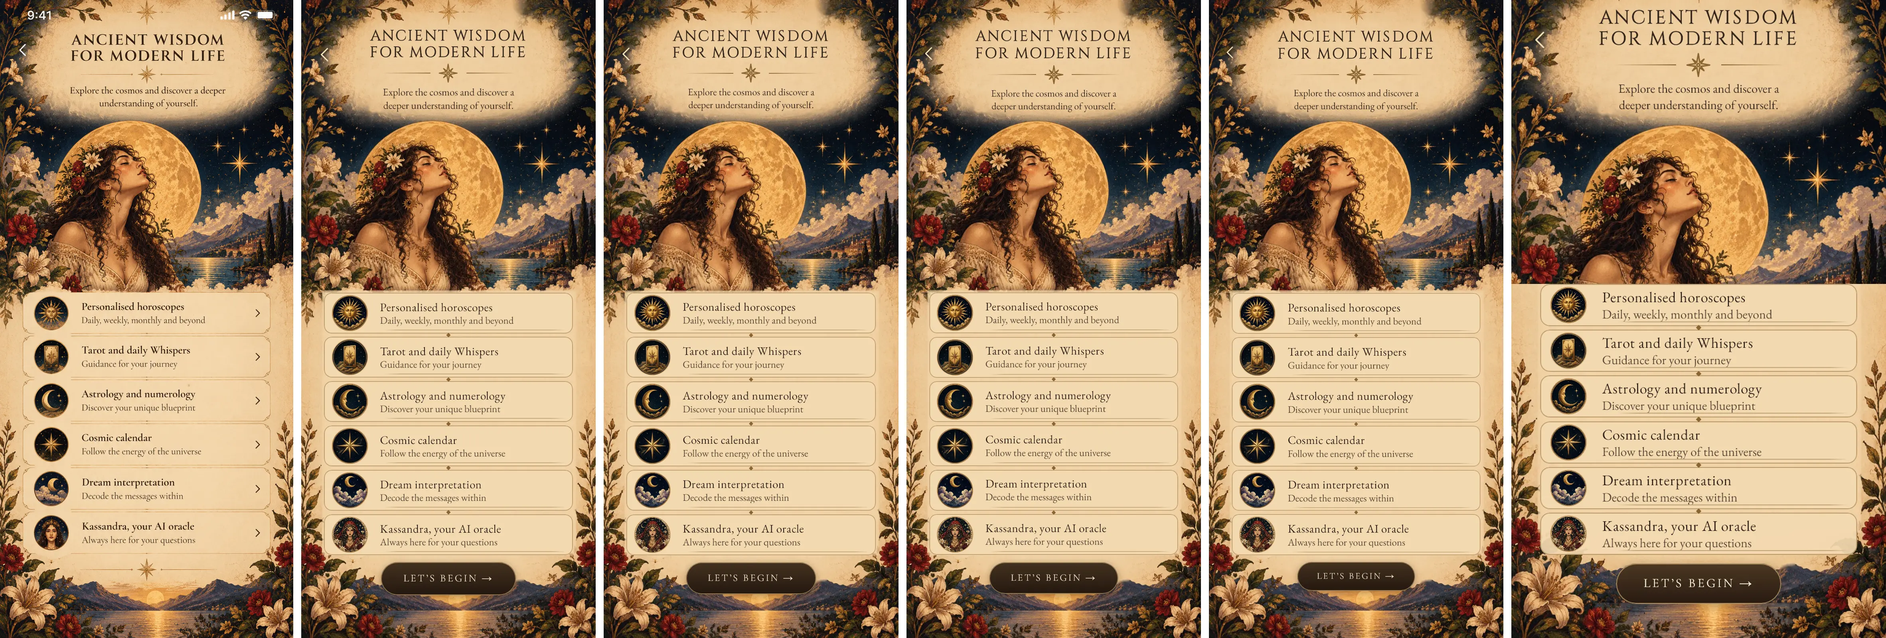
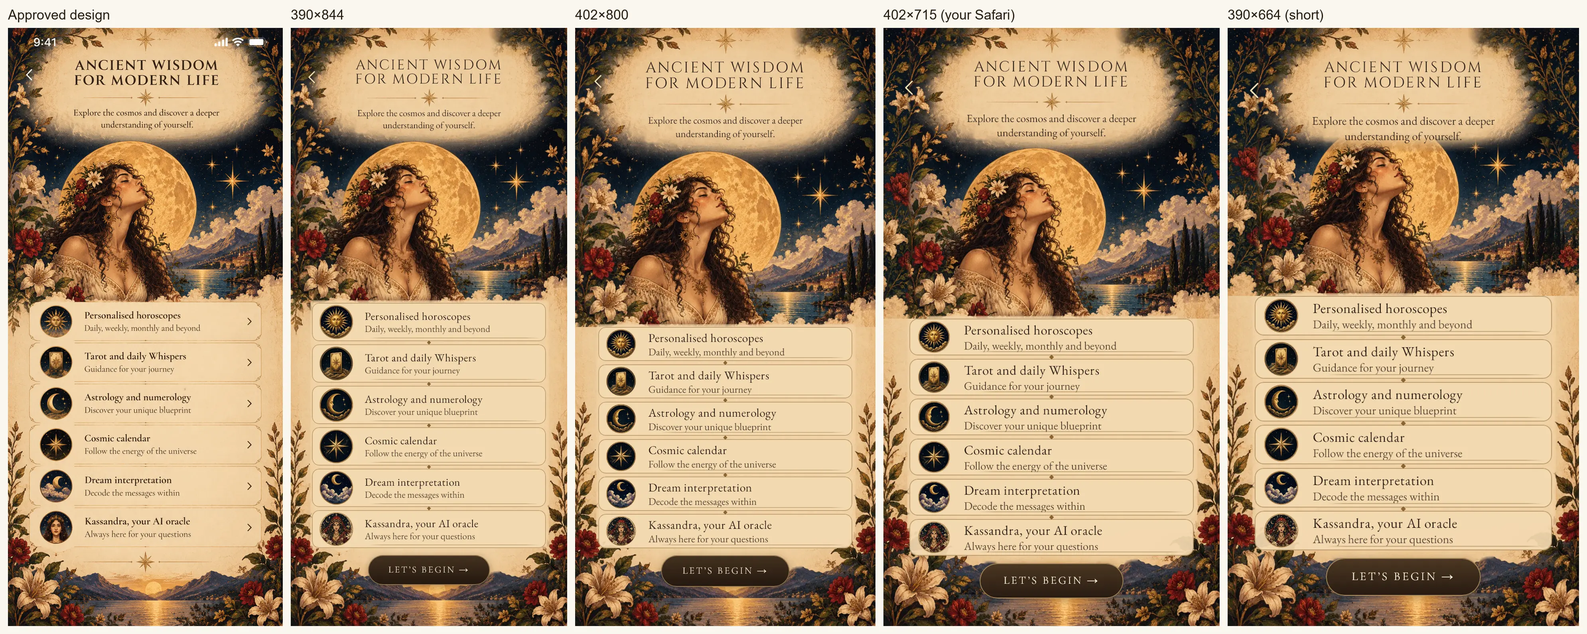
Ancient Wisdom, top half as approved: the painting keeps its whole frame (bottom clouds and flowers meeting the first row, the top star whole) with the rows taking what it leaves; on shorter screens the painting and its title scale down together to 85% (its sides painted further so the width stays f

diff --git a/public/art/sizes.js b/public/art/sizes.js
@@ -1,2 +1,2 @@
 /* generated by scripts/asset-manifest.mjs: [width, height, alpha] of every image under /art */
-window.KOSMIA_SIZES={"atlas/aw-foot":[850,1004,0],"atlas/aw-top":[850,846,0],"atlas/banner-calendar":[760,506,0],"atlas/banner-library":[760,506,0],"atlas/cal-scene":[1100,733,0],"atlas/ce-vignette":[480,720,0],"atlas/ds-death":[560,560,0],"atlas/ds-flying":[560,560,0],"atlas/ds-house":[560,560,0],"atlas/ds-snake":[560,560,0],"atlas/ds-water":[560,560,0],"atlas/ev-eclipse":[720,480,0],"atlas/ev-full":[720,480,0],"atlas/ev-meteor":[720,480,0],"atlas/ev-new":[720,480,0],"atlas/ev-planet":[720,480,0],"atlas/ev-quarter":[720,480,0],"atlas/ev-sun":[720,480,0],"atlas/ex-chart":[560,560,0],"atlas/ex-compat":[560,560,0],"atlas/ex-lifepath":[560,560,0],"atlas/ex-name":[560,560,0],"atlas/ex-resonance":[560,560,0],"atlas/fg-aquarius":[900,900,1],"atlas/fg-aries":[900,900,1],"atlas/fg-cancer":[900,900,1],"atlas/fg-capricorn":[900,900,1],"atlas/fg-gemini":[900,900,1],"atlas/fg-leo":[900,900,1],"atlas/fg-libra":[900,900,1],"atlas/fg-pisces":[900,900,1],"atlas/fg-sagittarius":[900,900,1],"atlas/fg-scorpio":[900,900,1],"atlas/fg-taurus":[900,900,1],"atlas/fg-virgo":[900,900,1],"atlas/hero-affinity":[1100,733,0],"atlas/hero-chart":[1100,733,0],"atlas/hero-discover":[1024,1024,0],"atlas/hero-dream":[1100,733,0],"atlas/hero-horoscope":[1024,1024,0],"atlas/hero-insights":[1100,733,0],"atlas/hero-journal":[1024,1024,0],"atlas/hero-lifepath":[1100,733,0],"atlas/hero-name":[1100,733,0],"atlas/hero-tarot":[1024,1024,0],"atlas/home-energy":[1200,800,0],"atlas/home-garden":[720,1080,0],"atlas/home-halo":[560,560,1],"atlas/home-lake":[720,1080,0],"atlas/home-sky":[1024,1536,0],"atlas/home-sun":[960,640,0],"atlas/home-vines":[720,1080,0],"atlas/ico-career":[275,320,1],"atlas/ico-family":[270,320,1],"atlas/ico-health":[281,320,1],"atlas/ico-love":[319,320,1],"atlas/ico-money":[262,320,1],"atlas/ico-overview":[282,320,1],"atlas/journal-end":[640,960,0],"atlas/kassandra-banner":[1100,733,0],"atlas/kassandra":[760,760,0],"atlas/landscape":[1100,733,0],"atlas/med-aquarius":[560,560,0],"atlas/med-aries":[560,560,0],"atlas/med-cancer":[560,560,0],"atlas/med-capricorn":[560,560,0],"atlas/med-gemini":[560,560,0],"atlas/med-leo":[560,560,0],"atlas/med-libra":[560,560,0],"atlas/med-pisces":[560,560,0],"atlas/med-sagittarius":[560,560,0],"atlas/med-scorpio":[560,560,0],"atlas/med-taurus":[560,560,0],"atlas/med-virgo":[560,560,0],"atlas/nav-discover":[314,320,1],"atlas/nav-home":[267,320,1],"atlas/nav-horoscope":[295,320,1],"atlas/nav-kassandra":[319,320,1],"atlas/nav-tarot":[270,320,1],"atlas/ne-card":[230,320,1],"atlas/ne-free":[269,320,1],"atlas/ob-crescent":[1200,800,0],"atlas/ob-final":[1200,800,0],"atlas/ob-sky":[900,1350,0],"atlas/ob-sunset":[960,1440,0],"atlas/ob-welcome":[1024,1536,0],"atlas/ob-woman":[1200,800,0],"atlas/obm-dream":[192,192,0],"atlas/obm-moon":[192,192,0],"atlas/obm-star":[192,192,0],"atlas/obm-sun":[192,192,0],"atlas/obm-tarot":[192,192,0],"atlas/owl":[1100,733,0],"atlas/plate-aquarius":[640,960,0],"atlas/plate-aries":[640,960,0],"atlas/plate-cancer":[640,960,0],"atlas/plate-capricorn":[640,960,0],"atlas/plate-gemini":[640,960,0],"atlas/plate-leo":[640,960,0],"atlas/plate-libra":[640,960,0],"atlas/plate-pisces":[640,960,0],"atlas/plate-sagittarius":[640,960,0],"atlas/plate-scorpio":[640,960,0],"atlas/plate-taurus":[640,960,0],"atlas/plate-virgo":[640,960,0],"atlas/t-history":[307,320,1],"atlas/t-journal":[315,320,1],"atlas/t-reading":[269,320,1],"atlas/t-whisper":[315,320,1],"atlas/welcome":[640,960,0],"atlas/zm-aquarius":[400,400,0],"atlas/zm-aries":[400,400,0],"atlas/zm-cancer":[400,400,0],"atlas/zm-capricorn":[400,400,0],"atlas/zm-gemini":[400,400,0],"atlas/zm-leo":[400,400,0],"atlas/zm-libra":[400,400,0],"atlas/zm-pisces":[400,400,0],"atlas/zm-sagittarius":[400,400,0],"atlas/zm-scorpio":[400,400,0],"atlas/zm-taurus":[400,400,0],"atlas/zm-virgo":[400,400,0],"cards/back":[600,900,0],"cards/cartouche":[640,640,1],"cards/crest":[144,67,1],"cards/kassandra-float":[278,300,1],"cards/kassandra":[480,480,0],"cards/ornament":[144,53,1],"cards/plaque":[1024,432,1],"cards/tarot-back":[600,900,0],"cats/aspects":[160,160,1],"cats/calendar":[160,160,1],"cats/career":[160,160,1],"cats/chart":[160,160,1],"cats/collection":[160,160,1],"cats/connections":[160,160,1],"cats/cycles":[160,160,1],"cats/deck":[160,160,1],"cats/family":[160,160,1],"cats/finance":[160,160,1],"cats/general":[160,160,1],"cats/health":[160,160,1],"cats/history":[160,160,1],"cats/insights":[160,160,1],"cats/lifepath":[160,160,1],"cats/love":[160,160,1],"cats/match":[160,160,1],"cats/moon":[160,160,1],"cats/namewithin":[160,160,1],"cats/new":[160,160,1],"cats/notifications":[160,160,1],"cats/planetary":[160,160,1],"cats/planets":[160,160,1],"cats/prefs":[160,160,1],"cats/privacy":[160,160,1],"cats/profile":[160,160,1],"cats/reflections":[160,160,1],"cats/resonance":[160,160,1],"cats/saved":[160,160,1],"cats/settings":[160,160,1],"cats/spreads":[160,160,1],"cats/today":[160,160,1],"cats/upcoming":[160,160,1],"cosmos":[768,1152,0],"deck/c1":[720,1080,0],"deck/c10":[720,1080,0],"deck/c11":[720,1080,0],"deck/c12":[720,1080,0],"deck/c13":[720,1080,0],"deck/c14":[720,1080,0],"deck/c2":[720,1080,0],"deck/c3":[720,1080,0],"deck/c4":[720,1080,0],"deck/c5":[720,1080,0],"deck/c6":[720,1080,0],"deck/c7":[720,1080,0],"deck/c8":[720,1080,0],"deck/c9":[720,1080,0],"deck/m0":[720,1080,0],"deck/m1":[720,1080,0],"deck/m10":[720,1080,0],"deck/m11":[720,1080,0],"deck/m12":[720,1080,0],"deck/m13":[720,1080,0],"deck/m14":[720,1080,0],"deck/m15":[720,1080,0],"deck/m16":[720,1080,0],"deck/m17":[720,1080,0],"deck/m18":[720,1080,0],"deck/m19":[720,1080,0],"deck/m2":[720,1080,0],"deck/m20":[720,1080,0],"deck/m21":[720,1080,0],"deck/m3":[720,1080,0],"deck/m4":[720,1080,0],"deck/m5":[720,1080,0],"deck/m6":[720,1080,0],"deck/m7":[720,1080,0],"deck/m8":[720,1080,0],"deck/m9":[720,1080,0],"deck/p1":[720,1080,0],"deck/p10":[720,1080,0],"deck/p11":[720,1080,0],"deck/p12":[720,1080,0],"deck/p13":[720,1080,0],"deck/p14":[720,1080,0],"deck/p2":[720,1080,0],"deck/p3":[720,1080,0],"deck/p4":[720,1080,0],"deck/p5":[720,1080,0],"deck/p6":[720,1080,0],"deck/p7":[720,1080,0],"deck/p8":[720,1080,0],"deck/p9":[720,1080,0],"deck/s1":[720,1080,0],"deck/s10":[720,1080,0],"deck/s11":[720,1080,0],"deck/s12":[720,1080,0],"deck/s13":[720,1080,0],"deck/s14":[720,1080,0],"deck/s2":[720,1080,0],"deck/s3":[720,1080,0],"deck/s4":[720,1080,0],"deck/s5":[720,1080,0],"deck/s6":[720,1080,0],"deck/s7":[720,1080,0],"deck/s8":[720,1080,0],"deck/s9":[720,1080,0],"deck/w1":[720,1080,0],"deck/w10":[720,1080,0],"deck/w11":[720,1080,0],"deck/w12":[720,1080,0],"deck/w13":[720,1080,0],"deck/w14":[720,1080,0],"deck/w2":[720,1080,0],"deck/w3":[720,1080,0],"deck/w4":[720,1080,0],"deck/w5":[720,1080,0],"deck/w6":[720,1080,0],"deck/w7":[720,1080,0],"deck/w8":[720,1080,0],"deck/w9":[720,1080,0],"frame-paper":[944,600,0],"frame":[1024,1536,0],"icons/aquarius":[256,256,1],"icons/aries":[256,256,1],"icons/cancer":[256,256,1],"icons/capricorn":[256,256,1],"icons/gemini":[256,256,1],"icons/leo":[256,256,1],"icons/libra":[256,256,1],"icons/pisces":[256,256,1],"icons/sagittarius":[256,256,1],"icons/scorpio":[256,256,1],"icons/taurus":[256,256,1],"icons/virgo":[256,256,1],"moons/first-quarter":[420,420,1],"moons/full-moon":[420,420,1],"moons/last-quarter":[420,420,1],"moons/new-moon":[420,420,1],"moons/waning-crescent":[420,420,1],"moons/waning-gibbous":[420,420,1],"moons/waxing-crescent":[420,420,1],"moons/waxing-gibbous":[420,420,1],"nav/calendar":[128,128,1],"nav/chart":[128,128,1],"nav/fortune":[128,128,1],"nav/home":[128,128,1],"nav/horoscopes":[128,128,1],"nav/love":[128,128,1],"nav/tarot":[128,128,1],"nav/universe":[128,128,1],"onboarding-paper":[1024,234,0],"onboarding":[1024,1536,0],"pages/compass-rose":[1024,1536,0],"pages/cover":[1024,1536,0],"pages/edge-h":[768,512,0],"pages/edge-v":[512,768,0],"pages/moon-phases":[1024,1536,0],"pages/night-sky":[1024,1536,0],"pages/pressed-roses":[1024,1536,0],"pages/sleeping-moon":[1024,1536,0],"pages/sun-face":[1024,1536,0],"plates/astro":[1024,683,0],"plates/connections":[1024,683,0],"plates/cycles":[1024,683,0],"plates/events":[1024,683,0],"plates/ins-astro":[1024,683,0],"plates/ins-numbers":[1024,683,0],"plates/ins-oracle":[1024,683,0],"plates/lifepath":[1024,683,0],"plates/locket":[1024,683,0],"plates/moon":[1024,683,0],"plates/name":[1024,683,0],"plates/natal":[1024,683,0],"plates/numbers":[1024,683,0],"plates/oracle":[1024,683,0],"plates/orrery":[1024,683,0],"plates/readings":[1024,683,0],"plates/sky":[1024,683,0],"plates/starmap":[1024,683,0],"plates/sunmoon":[1024,683,0],"plates/synastry":[1024,683,0],"scenes/aquarius":[768,1152,0],"scenes/aries":[768,1152,0],"scenes/cancer":[768,1152,0],"scenes/capricorn":[768,1152,0],"scenes/gemini":[768,1152,0],"scenes/leo":[768,1152,0],"scenes/libra":[768,1152,0],"scenes/pisces":[768,1152,0],"scenes/sagittarius":[768,1152,0],"scenes/scorpio":[768,1152,0],"scenes/taurus":[768,1152,0],"scenes/virgo":[768,1152,0],"spreads/career":[192,192,1],"spreads/celtic":[192,192,1],"spreads/love":[192,192,1],"spreads/one":[192,192,1],"spreads/ppf":[192,192,1],"spreads/scg":[192,192,1],"whispers/butterfly":[720,1080,0],"whispers/clear-crystal":[720,1080,0],"whispers/crossroads":[720,1080,0],"whispers/daily-bread":[720,1080,0],"whispers/dawn-chorus":[720,1080,0],"whispers/deep-roots":[720,1080,0],"whispers/distant-ship":[720,1080,0],"whispers/fairy-ring":[720,1080,0],"whispers/first-light":[720,1080,0],"whispers/gentle-rain":[720,1080,0],"whispers/golden-hour":[720,1080,0],"whispers/golden-key":[720,1080,0],"whispers/hidden-garden":[720,1080,0],"whispers/inner-key":[720,1080,0],"whispers/late-bloom":[720,1080,0],"whispers/lighthouse":[720,1080,0],"whispers/music-box":[720,1080,0],"whispers/nightingale":[720,1080,0],"whispers/north-star":[720,1080,0],"whispers/old-tree":[720,1080,0],"whispers/open-door":[720,1080,0],"whispers/open-path":[720,1080,0],"whispers/quiet-harvest":[720,1080,0],"whispers/quiet-moon":[720,1080,0],"whispers/returning-tide":[720,1080,0],"whispers/rising-sun":[720,1080,0],"whispers/sacred-flame":[720,1080,0],"whispers/sanctuary":[720,1080,0],"whispers/sealed-letter":[720,1080,0],"whispers/silver-thread":[720,1080,0],"whispers/snow-tracks":[720,1080,0],"whispers/stargazer":[720,1080,0],"whispers/steady-star":[720,1080,0],"whispers/stepping-stones":[720,1080,0],"whispers/still-water":[720,1080,0],"whispers/the-anchor":[720,1080,0],"whispers/the-aurora":[720,1080,0],"whispers/the-balloon":[720,1080,0],"whispers/the-bell":[720,1080,0],"whispers/the-bench":[720,1080,0],"whispers/the-birdcage":[720,1080,0],"whispers/the-blossom":[720,1080,0],"whispers/the-bridge":[720,1080,0],"whispers/the-cairn":[720,1080,0],"whispers/the-chalice":[720,1080,0],"whispers/the-comet":[720,1080,0],"whispers/the-compass":[720,1080,0],"whispers/the-dandelion":[720,1080,0],"whispers/the-eclipse":[720,1080,0],"whispers/the-ember":[720,1080,0],"whispers/the-feather":[720,1080,0],"whispers/the-fox":[720,1080,0],"whispers/the-frost":[720,1080,0],"whispers/the-hare":[720,1080,0],"whispers/the-harp":[720,1080,0],"whispers/the-hearth":[720,1080,0],"whispers/the-hedgerow":[720,1080,0],"whispers/the-heron":[720,1080,0],"whispers/the-hive":[720,1080,0],"whispers/the-hourglass":[720,1080,0],"whispers/the-kingfisher":[720,1080,0],"whispers/the-kite":[720,1080,0],"whispers/the-labyrinth":[720,1080,0],"whispers/the-lantern":[720,1080,0],"whispers/the-lotus":[720,1080,0],"whispers/the-mirror":[720,1080,0],"whispers/the-moth":[720,1080,0],"whispers/the-mountain":[720,1080,0],"whispers/the-nautilus":[720,1080,0],"whispers/the-nest":[720,1080,0],"whispers/the-orchard":[720,1080,0],"whispers/the-owl":[720,1080,0],"whispers/the-phoenix":[720,1080,0],"whispers/the-pinecone":[720,1080,0],"whispers/the-pomegranate":[720,1080,0],"whispers/the-river":[720,1080,0],"whispers/the-scales":[720,1080,0],"whispers/the-seed":[720,1080,0],"whispers/the-snail":[720,1080,0],"whispers/the-snowdrop":[720,1080,0],"whispers/the-spiral":[720,1080,0],"whispers/the-stag":[720,1080,0],"whispers/the-stile":[720,1080,0],"whispers/the-sundial":[720,1080,0],"whispers/the-swan":[720,1080,0],"whispers/the-swing":[720,1080,0],"whispers/the-tapestry":[720,1080,0],"whispers/the-waterfall":[720,1080,0],"whispers/the-weaver":[720,1080,0],"whispers/the-web":[720,1080,0],"whispers/the-well":[720,1080,0],"whispers/the-whale":[720,1080,0],"whispers/the-willow":[720,1080,0],"whispers/the-wind":[720,1080,0],"whispers/turning-wheel":[720,1080,0],"whispers/two-moons":[720,1080,0],"whispers/watchful-eye":[720,1080,0],"whispers/white-lily":[720,1080,0],"whispers/wild-geese":[720,1080,0],"whispers/wild-horse":[720,1080,0]};
+window.KOSMIA_SIZES={"atlas/aw-foot":[850,1004,0],"atlas/aw-top":[1269,846,0],"atlas/banner-calendar":[760,506,0],"atlas/banner-library":[760,506,0],"atlas/cal-scene":[1100,733,0],"atlas/ce-vignette":[480,720,0],"atlas/ds-death":[560,560,0],"atlas/ds-flying":[560,560,0],"atlas/ds-house":[560,560,0],"atlas/ds-snake":[560,560,0],"atlas/ds-water":[560,560,0],"atlas/ev-eclipse":[720,480,0],"atlas/ev-full":[720,480,0],"atlas/ev-meteor":[720,480,0],"atlas/ev-new":[720,480,0],"atlas/ev-planet":[720,480,0],"atlas/ev-quarter":[720,480,0],"atlas/ev-sun":[720,480,0],"atlas/ex-chart":[560,560,0],"atlas/ex-compat":[560,560,0],"atlas/ex-lifepath":[560,560,0],"atlas/ex-name":[560,560,0],"atlas/ex-resonance":[560,560,0],"atlas/fg-aquarius":[900,900,1],"atlas/fg-aries":[900,900,1],"atlas/fg-cancer":[900,900,1],"atlas/fg-capricorn":[900,900,1],"atlas/fg-gemini":[900,900,1],"atlas/fg-leo":[900,900,1],"atlas/fg-libra":[900,900,1],"atlas/fg-pisces":[900,900,1],"atlas/fg-sagittarius":[900,900,1],"atlas/fg-scorpio":[900,900,1],"atlas/fg-taurus":[900,900,1],"atlas/fg-virgo":[900,900,1],"atlas/hero-affinity":[1100,733,0],"atlas/hero-chart":[1100,733,0],"atlas/hero-discover":[1024,1024,0],"atlas/hero-dream":[1100,733,0],"atlas/hero-horoscope":[1024,1024,0],"atlas/hero-insights":[1100,733,0],"atlas/hero-journal":[1024,1024,0],"atlas/hero-lifepath":[1100,733,0],"atlas/hero-name":[1100,733,0],"atlas/hero-tarot":[1024,1024,0],"atlas/home-energy":[1200,800,0],"atlas/home-garden":[720,1080,0],"atlas/home-halo":[560,560,1],"atlas/home-lake":[720,1080,0],"atlas/home-sky":[1024,1536,0],"atlas/home-sun":[960,640,0],"atlas/home-vines":[720,1080,0],"atlas/ico-career":[275,320,1],"atlas/ico-family":[270,320,1],"atlas/ico-health":[281,320,1],"atlas/ico-love":[319,320,1],"atlas/ico-money":[262,320,1],"atlas/ico-overview":[282,320,1],"atlas/journal-end":[640,960,0],"atlas/kassandra-banner":[1100,733,0],"atlas/kassandra":[760,760,0],"atlas/landscape":[1100,733,0],"atlas/med-aquarius":[560,560,0],"atlas/med-aries":[560,560,0],"atlas/med-cancer":[560,560,0],"atlas/med-capricorn":[560,560,0],"atlas/med-gemini":[560,560,0],"atlas/med-leo":[560,560,0],"atlas/med-libra":[560,560,0],"atlas/med-pisces":[560,560,0],"atlas/med-sagittarius":[560,560,0],"atlas/med-scorpio":[560,560,0],"atlas/med-taurus":[560,560,0],"atlas/med-virgo":[560,560,0],"atlas/nav-discover":[314,320,1],"atlas/nav-home":[267,320,1],"atlas/nav-horoscope":[295,320,1],"atlas/nav-kassandra":[319,320,1],"atlas/nav-tarot":[270,320,1],"atlas/ne-card":[230,320,1],"atlas/ne-free":[269,320,1],"atlas/ob-crescent":[1200,800,0],"atlas/ob-final":[1200,800,0],"atlas/ob-sky":[900,1350,0],"atlas/ob-sunset":[960,1440,0],"atlas/ob-welcome":[1024,1536,0],"atlas/ob-woman":[1200,800,0],"atlas/obm-dream":[192,192,0],"atlas/obm-moon":[192,192,0],"atlas/obm-star":[192,192,0],"atlas/obm-sun":[192,192,0],"atlas/obm-tarot":[192,192,0],"atlas/owl":[1100,733,0],"atlas/plate-aquarius":[640,960,0],"atlas/plate-aries":[640,960,0],"atlas/plate-cancer":[640,960,0],"atlas/plate-capricorn":[640,960,0],"atlas/plate-gemini":[640,960,0],"atlas/plate-leo":[640,960,0],"atlas/plate-libra":[640,960,0],"atlas/plate-pisces":[640,960,0],"atlas/plate-sagittarius":[640,960,0],"atlas/plate-scorpio":[640,960,0],"atlas/plate-taurus":[640,960,0],"atlas/plate-virgo":[640,960,0],"atlas/t-history":[307,320,1],"atlas/t-journal":[315,320,1],"atlas/t-reading":[269,320,1],"atlas/t-whisper":[315,320,1],"atlas/welcome":[640,960,0],"atlas/zm-aquarius":[400,400,0],"atlas/zm-aries":[400,400,0],"atlas/zm-cancer":[400,400,0],"atlas/zm-capricorn":[400,400,0],"atlas/zm-gemini":[400,400,0],"atlas/zm-leo":[400,400,0],"atlas/zm-libra":[400,400,0],"atlas/zm-pisces":[400,400,0],"atlas/zm-sagittarius":[400,400,0],"atlas/zm-scorpio":[400,400,0],"atlas/zm-taurus":[400,400,0],"atlas/zm-virgo":[400,400,0],"cards/back":[600,900,0],"cards/cartouche":[640,640,1],"cards/crest":[144,67,1],"cards/kassandra-float":[278,300,1],"cards/kassandra":[480,480,0],"cards/ornament":[144,53,1],"cards/plaque":[1024,432,1],"cards/tarot-back":[600,900,0],"cats/aspects":[160,160,1],"cats/calendar":[160,160,1],"cats/career":[160,160,1],"cats/chart":[160,160,1],"cats/collection":[160,160,1],"cats/connections":[160,160,1],"cats/cycles":[160,160,1],"cats/deck":[160,160,1],"cats/family":[160,160,1],"cats/finance":[160,160,1],"cats/general":[160,160,1],"cats/health":[160,160,1],"cats/history":[160,160,1],"cats/insights":[160,160,1],"cats/lifepath":[160,160,1],"cats/love":[160,160,1],"cats/match":[160,160,1],"cats/moon":[160,160,1],"cats/namewithin":[160,160,1],"cats/new":[160,160,1],"cats/notifications":[160,160,1],"cats/planetary":[160,160,1],"cats/planets":[160,160,1],"cats/prefs":[160,160,1],"cats/privacy":[160,160,1],"cats/profile":[160,160,1],"cats/reflections":[160,160,1],"cats/resonance":[160,160,1],"cats/saved":[160,160,1],"cats/settings":[160,160,1],"cats/spreads":[160,160,1],"cats/today":[160,160,1],"cats/upcoming":[160,160,1],"cosmos":[768,1152,0],"deck/c1":[720,1080,0],"deck/c10":[720,1080,0],"deck/c11":[720,1080,0],"deck/c12":[720,1080,0],"deck/c13":[720,1080,0],"deck/c14":[720,1080,0],"deck/c2":[720,1080,0],"deck/c3":[720,1080,0],"deck/c4":[720,1080,0],"deck/c5":[720,1080,0],"deck/c6":[720,1080,0],"deck/c7":[720,1080,0],"deck/c8":[720,1080,0],"deck/c9":[720,1080,0],"deck/m0":[720,1080,0],"deck/m1":[720,1080,0],"deck/m10":[720,1080,0],"deck/m11":[720,1080,0],"deck/m12":[720,1080,0],"deck/m13":[720,1080,0],"deck/m14":[720,1080,0],"deck/m15":[720,1080,0],"deck/m16":[720,1080,0],"deck/m17":[720,1080,0],"deck/m18":[720,1080,0],"deck/m19":[720,1080,0],"deck/m2":[720,1080,0],"deck/m20":[720,1080,0],"deck/m21":[720,1080,0],"deck/m3":[720,1080,0],"deck/m4":[720,1080,0],"deck/m5":[720,1080,0],"deck/m6":[720,1080,0],"deck/m7":[720,1080,0],"deck/m8":[720,1080,0],"deck/m9":[720,1080,0],"deck/p1":[720,1080,0],"deck/p10":[720,1080,0],"deck/p11":[720,1080,0],"deck/p12":[720,1080,0],"deck/p13":[720,1080,0],"deck/p14":[720,1080,0],"deck/p2":[720,1080,0],"deck/p3":[720,1080,0],"deck/p4":[720,1080,0],"deck/p5":[720,1080,0],"deck/p6":[720,1080,0],"deck/p7":[720,1080,0],"deck/p8":[720,1080,0],"deck/p9":[720,1080,0],"deck/s1":[720,1080,0],"deck/s10":[720,1080,0],"deck/s11":[720,1080,0],"deck/s12":[720,1080,0],"deck/s13":[720,1080,0],"deck/s14":[720,1080,0],"deck/s2":[720,1080,0],"deck/s3":[720,1080,0],"deck/s4":[720,1080,0],"deck/s5":[720,1080,0],"deck/s6":[720,1080,0],"deck/s7":[720,1080,0],"deck/s8":[720,1080,0],"deck/s9":[720,1080,0],"deck/w1":[720,1080,0],"deck/w10":[720,1080,0],"deck/w11":[720,1080,0],"deck/w12":[720,1080,0],"deck/w13":[720,1080,0],"deck/w14":[720,1080,0],"deck/w2":[720,1080,0],"deck/w3":[720,1080,0],"deck/w4":[720,1080,0],"deck/w5":[720,1080,0],"deck/w6":[720,1080,0],"deck/w7":[720,1080,0],"deck/w8":[720,1080,0],"deck/w9":[720,1080,0],"frame-paper":[944,600,0],"frame":[1024,1536,0],"icons/aquarius":[256,256,1],"icons/aries":[256,256,1],"icons/cancer":[256,256,1],"icons/capricorn":[256,256,1],"icons/gemini":[256,256,1],"icons/leo":[256,256,1],"icons/libra":[256,256,1],"icons/pisces":[256,256,1],"icons/sagittarius":[256,256,1],"icons/scorpio":[256,256,1],"icons/taurus":[256,256,1],"icons/virgo":[256,256,1],"moons/first-quarter":[420,420,1],"moons/full-moon":[420,420,1],"moons/last-quarter":[420,420,1],"moons/new-moon":[420,420,1],"moons/waning-crescent":[420,420,1],"moons/waning-gibbous":[420,420,1],"moons/waxing-crescent":[420,420,1],"moons/waxing-gibbous":[420,420,1],"nav/calendar":[128,128,1],"nav/chart":[128,128,1],"nav/fortune":[128,128,1],"nav/home":[128,128,1],"nav/horoscopes":[128,128,1],"nav/love":[128,128,1],"nav/tarot":[128,128,1],"nav/universe":[128,128,1],"onboarding-paper":[1024,234,0],"onboarding":[1024,1536,0],"pages/compass-rose":[1024,1536,0],"pages/cover":[1024,1536,0],"pages/edge-h":[768,512,0],"pages/edge-v":[512,768,0],"pages/moon-phases":[1024,1536,0],"pages/night-sky":[1024,1536,0],"pages/pressed-roses":[1024,1536,0],"pages/sleeping-moon":[1024,1536,0],"pages/sun-face":[1024,1536,0],"plates/astro":[1024,683,0],"plates/connections":[1024,683,0],"plates/cycles":[1024,683,0],"plates/events":[1024,683,0],"plates/ins-astro":[1024,683,0],"plates/ins-numbers":[1024,683,0],"plates/ins-oracle":[1024,683,0],"plates/lifepath":[1024,683,0],"plates/locket":[1024,683,0],"plates/moon":[1024,683,0],"plates/name":[1024,683,0],"plates/natal":[1024,683,0],"plates/numbers":[1024,683,0],"plates/oracle":[1024,683,0],"plates/orrery":[1024,683,0],"plates/readings":[1024,683,0],"plates/sky":[1024,683,0],"plates/starmap":[1024,683,0],"plates/sunmoon":[1024,683,0],"plates/synastry":[1024,683,0],"scenes/aquarius":[768,1152,0],"scenes/aries":[768,1152,0],"scenes/cancer":[768,1152,0],"scenes/capricorn":[768,1152,0],"scenes/gemini":[768,1152,0],"scenes/leo":[768,1152,0],"scenes/libra":[768,1152,0],"scenes/pisces":[768,1152,0],"scenes/sagittarius":[768,1152,0],"scenes/scorpio":[768,1152,0],"scenes/taurus":[768,1152,0],"scenes/virgo":[768,1152,0],"spreads/career":[192,192,1],"spreads/celtic":[192,192,1],"spreads/love":[192,192,1],"spreads/one":[192,192,1],"spreads/ppf":[192,192,1],"spreads/scg":[192,192,1],"whispers/butterfly":[720,1080,0],"whispers/clear-crystal":[720,1080,0],"whispers/crossroads":[720,1080,0],"whispers/daily-bread":[720,1080,0],"whispers/dawn-chorus":[720,1080,0],"whispers/deep-roots":[720,1080,0],"whispers/distant-ship":[720,1080,0],"whispers/fairy-ring":[720,1080,0],"whispers/first-light":[720,1080,0],"whispers/gentle-rain":[720,1080,0],"whispers/golden-hour":[720,1080,0],"whispers/golden-key":[720,1080,0],"whispers/hidden-garden":[720,1080,0],"whispers/inner-key":[720,1080,0],"whispers/late-bloom":[720,1080,0],"whispers/lighthouse":[720,1080,0],"whispers/music-box":[720,1080,0],"whispers/nightingale":[720,1080,0],"whispers/north-star":[720,1080,0],"whispers/old-tree":[720,1080,0],"whispers/open-door":[720,1080,0],"whispers/open-path":[720,1080,0],"whispers/quiet-harvest":[720,1080,0],"whispers/quiet-moon":[720,1080,0],"whispers/returning-tide":[720,1080,0],"whispers/rising-sun":[720,1080,0],"whispers/sacred-flame":[720,1080,0],"whispers/sanctuary":[720,1080,0],"whispers/sealed-letter":[720,1080,0],"whispers/silver-thread":[720,1080,0],"whispers/snow-tracks":[720,1080,0],"whispers/stargazer":[720,1080,0],"whispers/steady-star":[720,1080,0],"whispers/stepping-stones":[720,1080,0],"whispers/still-water":[720,1080,0],"whispers/the-anchor":[720,1080,0],"whispers/the-aurora":[720,1080,0],"whispers/the-balloon":[720,1080,0],"whispers/the-bell":[720,1080,0],"whispers/the-bench":[720,1080,0],"whispers/the-birdcage":[720,1080,0],"whispers/the-blossom":[720,1080,0],"whispers/the-bridge":[720,1080,0],"whispers/the-cairn":[720,1080,0],"whispers/the-chalice":[720,1080,0],"whispers/the-comet":[720,1080,0],"whispers/the-compass":[720,1080,0],"whispers/the-dandelion":[720,1080,0],"whispers/the-eclipse":[720,1080,0],"whispers/the-ember":[720,1080,0],"whispers/the-feather":[720,1080,0],"whispers/the-fox":[720,1080,0],"whispers/the-frost":[720,1080,0],"whispers/the-hare":[720,1080,0],"whispers/the-harp":[720,1080,0],"whispers/the-hearth":[720,1080,0],"whispers/the-hedgerow":[720,1080,0],"whispers/the-heron":[720,1080,0],"whispers/the-hive":[720,1080,0],"whispers/the-hourglass":[720,1080,0],"whispers/the-kingfisher":[720,1080,0],"whispers/the-kite":[720,1080,0],"whispers/the-labyrinth":[720,1080,0],"whispers/the-lantern":[720,1080,0],"whispers/the-lotus":[720,1080,0],"whispers/the-mirror":[720,1080,0],"whispers/the-moth":[720,1080,0],"whispers/the-mountain":[720,1080,0],"whispers/the-nautilus":[720,1080,0],"whispers/the-nest":[720,1080,0],"whispers/the-orchard":[720,1080,0],"whispers/the-owl":[720,1080,0],"whispers/the-phoenix":[720,1080,0],"whispers/the-pinecone":[720,1080,0],"whispers/the-pomegranate":[720,1080,0],"whispers/the-river":[720,1080,0],"whispers/the-scales":[720,1080,0],"whispers/the-seed":[720,1080,0],"whispers/the-snail":[720,1080,0],"whispers/the-snowdrop":[720,1080,0],"whispers/the-spiral":[720,1080,0],"whispers/the-stag":[720,1080,0],"whispers/the-stile":[720,1080,0],"whispers/the-sundial":[720,1080,0],"whispers/the-swan":[720,1080,0],"whispers/the-swing":[720,1080,0],"whispers/the-tapestry":[720,1080,0],"whispers/the-waterfall":[720,1080,0],"whispers/the-weaver":[720,1080,0],"whispers/the-web":[720,1080,0],"whispers/the-well":[720,1080,0],"whispers/the-whale":[720,1080,0],"whispers/the-willow":[720,1080,0],"whispers/the-wind":[720,1080,0],"whispers/turning-wheel":[720,1080,0],"whispers/two-moons":[720,1080,0],"whispers/watchful-eye":[720,1080,0],"whispers/white-lily":[720,1080,0],"whispers/wild-geese":[720,1080,0],"whispers/wild-horse":[720,1080,0]};

diff --git a/public/styles.css b/public/styles.css
@@ -1292,24 +1292,32 @@ body.has-nav:not([data-sec=home]) #app::after{content:'';position:fixed;z-index:
 .ob .link{color:var(--k-burgundy,#713B42);font-style:italic;text-decoration:underline;text-underline-offset:3px}
 .ob-dark .ob-panel .link{color:#713B42}
 
-/* 1. Ancient Wisdom: one illustrated page that fits the screen. The approved mockup's own scenery in two layers (aw-top: the
-   title's cloud, the woman before the moon; aw-foot: the vines beside the list, the sunset and its flowers), the interface over it.
-   Every height comes from the visible screen: the rows and the foot take their share and the painting the rest, cropped from
-   below on shorter screens; below about 640px the page scrolls rather than squeezing the text */
-.ob-intro{--H:100vh;--rh:clamp(44px,6.4vh,62px);--rg:clamp(2px,.55vh,5px);--ft:clamp(80px,13vh,124px);
- --T:max(250px,calc(var(--H) - 6*var(--rh) - 5*var(--rg) - var(--ft)));
- --sh:clamp(0px,calc((99.5cqw - var(--T))/3),30px);
+/* 1. Ancient Wisdom: one illustrated page that fits the screen. The approved mockup's own scenery (aw-top: the title's cloud
+   with its painted star rule, the woman before the moon; aw-foot: the vines beside the list, the sunset and its flowers), the
+   interface over it. The painting always keeps its whole frame (--N, its natural height at this width) so its clouds and
+   flowers meet the first row; the rows (44-62px) and the foot share what is left. On a screen too short even for that, the
+   painting is shown twice in layers: the title's cloud stays at the top and the woman's scene slides up beneath the
+   cloud's soft lower edge, so nothing is cut through; below about 640px the page scrolls rather than squeezing the text */
+.ob-intro{--H:100vh;--N:99.5cqw;--rg:clamp(2px,calc(var(--H)*.0055),5px);--ft:clamp(84px,calc(var(--H)*.13),124px);
+ --T:max(250px,min(var(--N),calc(var(--H) - 6*44px - 5*var(--rg) - 84px)));
+ --rh:clamp(44px,calc((var(--H) - var(--T) - 5*var(--rg) - var(--ft))/6),62px);
+ --sa:max(0px,calc(env(safe-area-inset-top,0px) + 4px - 10.8cqw));
  container-type:inline-size;min-height:var(--H);background:#F0D5AB;padding:0;gap:0;justify-content:flex-start}
-@supports (height:100dvh){.ob-intro{--H:100dvh;--rh:clamp(44px,6.4dvh,62px);--rg:clamp(2px,.55dvh,5px);--ft:clamp(80px,13dvh,124px)}}
-.aw-t{top:calc(-1*var(--sh));height:calc(var(--T) + var(--sh));object-fit:cover;object-position:50% 0}
+@supports (height:100dvh){.ob-intro{--H:100dvh}}
 .aw-f{bottom:0}
 html:has(.ob-intro),html:has(.ob-intro) body{background:#523A25;overscroll-behavior:none}
-.aw-top{position:relative;flex:none;width:100%;height:var(--T)}
-.aw-head{position:absolute;left:12%;right:12%;top:max(calc(9.6cqw - var(--sh)),calc(env(safe-area-inset-top,0px) + 4px));display:flex;flex-direction:column;align-items:center;gap:1.6cqw}
-.ob-intro h1.cz{margin:0;font-family:var(--font-display);font-size:5.05cqw;line-height:1.16;letter-spacing:.055em;text-transform:uppercase;font-weight:700;color:#2E2118;-webkit-text-stroke:.4px currentColor}
-.ob-intro .ob-lead{max-width:76cqw;text-wrap:wrap;margin:0;font-family:var(--font-text);font-size:max(13px,3.3cqw);line-height:1.36;color:var(--k-ink)}
-.ob-intro .aw-head .ob-rule{width:46cqw;color:var(--k-gold-deep)}
-.ob-intro .aw-head .ob-rule svg{width:7cqw;height:7cqw;margin:-1cqw 0}
+.aw-top{position:relative;flex:none;width:100%;height:var(--T);container-type:size;--A:clamp(84.6cqw,100cqh,99.5cqw)}
+/* the painting (aw-top: the mockup's frame with its sides painted further) at its full size where it fits; on a shorter
+   screen it scales down as a whole, title and all, to 85%, its extended sides filling the width; only below that does the
+   woman's scene slide up beneath the cloud's lower edge, over the empty sky above the moon */
+.aw-art{position:absolute;inset:0;pointer-events:none}
+.aw-sc,.aw-cl{position:absolute;left:50%;width:calc(var(--A)*1.493);max-width:none;height:var(--A);transform:translateX(-50%)}
+.aw-sc{bottom:0}
+.aw-cl{top:var(--sa);-webkit-mask-image:linear-gradient(#000 36.5%,transparent 42%);mask-image:linear-gradient(#000 36.5%,transparent 42%)}
+/* the title and subtitle sit where the mockup sets them, around its painted star rule */
+.aw-head{position:absolute;left:50%;top:var(--sa);width:calc(var(--A)*.8);height:calc(var(--A)*.4);transform:translateX(-50%);text-align:center}
+.ob-intro h1.cz{position:absolute;left:0;right:0;top:calc(var(--A)*.109);margin:0;font-family:var(--font-display);font-size:calc(var(--A)*.0508);line-height:calc(var(--A)*.0533);letter-spacing:.055em;text-transform:uppercase;font-weight:700;color:#2E2118}
+.ob-intro .aw-head .ob-lead{position:absolute;left:50%;top:calc(var(--A)*.287);width:calc(var(--A)*.62);transform:translateX(-50%);max-width:none;margin:0;font-family:var(--font-text);font-size:max(13px,calc(var(--A)*.0332));line-height:max(17.5px,calc(var(--A)*.0452));color:var(--k-ink);text-wrap:wrap}
 /* the six gifts: manuscript rows with a fine gilt line, the medallion, the title and its line, a chevron; no raised cards */
 .obi-list{position:relative;list-style:none;margin:0 auto;padding:0;width:84.5cqw;display:flex;flex-direction:column;gap:var(--rg)}
 .obi-list li{position:relative;height:var(--rh);display:grid;grid-template-columns:auto 1fr;gap:4.4cqw;align-items:center;padding:0 3.6cqw 0 2.6cqw;border:1px solid rgba(138,100,48,.5);border-radius:10px;background:rgba(243,217,177,.92);text-align:left;line-height:1.2}
@@ -1320,7 +1328,7 @@ html:has(.ob-intro),html:has(.ob-intro) body{background:#523A25;overscroll-behav
 .obi-list li>span:nth-child(2)>span{font-family:var(--font-text);font-size:max(12.5px,3.4cqw);color:var(--k-ink-soft);white-space:nowrap;overflow:hidden;text-overflow:ellipsis}
 .obi-med{display:block;width:min(11.8cqw,calc(var(--rh) - 8px));aspect-ratio:1;border-radius:50%;overflow:hidden;background:var(--k-midnight);box-shadow:0 0 0 1px rgba(var(--k-gold-rgb),.85)}
 .obi-k{display:block;width:100%;height:100%;object-fit:cover;object-position:50% 18%}
-.aw-go{flex:none;height:var(--ft);display:flex;justify-content:center;align-items:flex-start;padding-top:calc(var(--rg) + 5px)}
+.aw-go{flex:1 0 auto;min-height:84px;display:flex;justify-content:center;align-items:flex-start;padding-top:calc(var(--rg) + 5px)}
 .ob-intro .aw-go .btn{width:auto;min-width:0;min-height:42px;height:42px;padding:0 28px;font-size:.82rem;box-shadow:0 2px 10px rgba(var(--k-shadow-rgb),.35)}
 
 /* 2. The sign: the sun and the crescent above, the night with its flowers, the twelve medallions three to a row, the
@@ -1368,7 +1376,7 @@ html:has(.ob-intro),html:has(.ob-intro) body{background:#523A25;overscroll-behav
 .ob-signin .ob-rule.lone{margin-bottom:-4px}
 .ob-signin .ob-fields{text-align:left}
 .ob-signin .ob-mail{margin-top:0}
-.ob-intro>.ibtn{top:max(calc(13cqw - var(--sh)),calc(env(safe-area-inset-top,0px) + 6px));left:2.5cqw}
+.ob-intro>.ibtn{top:calc(12.5cqw + var(--sa));left:2.5cqw}
 .ob-intro>.ibtn,.ob-signin>.ibtn{color:#F1DFB4;filter:drop-shadow(0 1px 3px rgba(0,0,0,.8))}
 .ob .ob-lead{text-wrap:balance}
 .oba-head{position:relative}

diff --git a/public/app.js b/public/app.js
@@ -406,8 +406,8 @@ const SUNSET=['ob-sunset','obl-foot',false],CROWN=['ob-crescent','obl-crown'];
 const OB_FEATS=[['obm-sun','Personalised horoscopes','Daily, weekly, monthly and beyond'],['obm-tarot','Tarot and daily Whispers','Guidance for your journey'],['obm-moon','Astrology and numerology','Discover your unique blueprint'],['obm-star','Cosmic calendar','Follow the energy of the universe'],['obm-dream','Dream interpretation','Decode the messages within'],['kassandra','Kassandra, your AI oracle','Always here for your questions']];
 views.welcome=()=>{
  const st=V.ob,s=V.joinSign?sg(V.joinSign):null;
- if(st==='intro')return `<div class="ob ob-paper ob-intro">${obBg(['aw-foot','aw-f',false],['aw-top','aw-t'])}${iconBtn('back','data-act="obstep" data-to="welcome"','Back')}
-  <div class="aw-top"><div class="aw-head"><h1 class="cz">Ancient Wisdom<br>for Modern Life</h1><span class="ob-rule" aria-hidden="true">${Kit.icon('compass')}</span><p class="ob-lead">Explore the cosmos and discover a deeper understanding of yourself.</p></div></div>
+ if(st==='intro')return `<div class="ob ob-paper ob-intro">${obBg(['aw-foot','aw-f',false])}${iconBtn('back','data-act="obstep" data-to="welcome"','Back')}
+  <div class="aw-top"><div class="aw-art" aria-hidden="true">${ui('aw-top','aw-sc','',true)}${ui('aw-top','aw-cl','',true)}</div><div class="aw-head"><h1 class="cz">Ancient Wisdom<br>for Modern Life</h1><p class="ob-lead">Explore the cosmos and discover a deeper understanding of yourself.</p></div></div>
   <ul class="obi-list">${OB_FEATS.map(([i,t,d])=>`<li><span class="obi-med">${ui(i,'obi-k')}</span><span><strong>${t}</strong><span>${d}</span></span></li>`).join('')}</ul>
   <div class="aw-go"><button class="btn" data-act="obnext" data-to="sign">Let’s Begin →</button></div></div>`;
  if(st==='sign')return `<div class="ob ob-dark ob-sign">${obBg(['ob-sky','obl-top'],SUNSET)}${STARS}${iconBtn('back','data-act="obstep" data-to="intro"','Back')}

diff --git a/docs/ONBOARDING-V2.md b/docs/ONBOARDING-V2.md
@@ -82,7 +82,7 @@ They replace the stand-ins used at first (`ob-welcome`, `home-sky`, `welcome` an
 
 **Corrections (29 October 2026, later):**
 - **The rows carry no chevrons:** they describe features and are not links; the arrow column is gone and Let's Begin is the page's only action.
-- **The painting on shorter screens:** the rows may compact to 44 px and the painting first gives up up to 30 px of the empty band above the title (the title and back arrow move up with it, never under the safe area), so the woman's face and shoulders stay in view before anything below them is cropped. At the standard sizes (375×812 to 430×932) nothing is cropped beyond the mockup's own frame. Sizes: `docs/review/ob3-intro-sizes.webp` (reference, 375×812, 390×844, 393×852, 430×932, 390×664).
+- **The painting on shorter screens (approved preview, 29 October 2026):** the painting always keeps its whole frame: its bottom clouds and flowers meet the first row and its top star is never cut. The rows (44–62 px) and the foot take what it leaves. Where the screen is shorter, the painting and its title scale down together to 85% (`aw-top` is the mockup's frame with its sides painted further by a masked `gpt-image-2` edit, the original centre pasted back pixel for pixel, so the width stays filled); only below that does the woman's scene slide up, beneath the cloud's soft edge, over the empty sky above the moon (32 px at 390×664). The star rule is the mockup's own painted one; the title and subtitle are placed on it as in the mockup. Sizes: `docs/review/ob3-intro-sizes.webp` (approved design, 390×844, 402×800, 402×715, 390×664); top half: `docs/review/ob3-intro.webp`.
 - **No navy strip:** the page no longer pulled itself up by the app's bottom padding (which onboarding already removes). On this screen only, the ground outside the page (behind Safari's toolbar, or shown by a bounce) is the dark brown of the flowers at the sunset's foot instead of the app's navy, and the bounce is turned off.
 
 The earlier bespoke `ob-wisdom` painting is retired (deleted with its paint job).

diff --git a/docs/asset-manifest.md b/docs/asset-manifest.md
@@ -17,7 +17,7 @@ their space before they load.
 | Asset | Size | Ratio | Alpha | KB | Status | Notes |
 |---|---|---|---|---|---|---|
 | `public/art/atlas/aw-foot.webp` | 850×1004 | 0.85:1 | no | 74 | provisional |  |
-| `public/art/atlas/aw-top.webp` | 850×846 | 1.00:1 | no | 168 | provisional |  |
+| `public/art/atlas/aw-top.webp` | 1269×846 | 3:2 | no | 284 | provisional |  |
 | `public/art/atlas/cal-scene.webp` | 1100×733 | 1.50:1 | no | 253 | provisional |  |
 | `public/art/atlas/ce-vignette.webp` | 480×720 | 2:3 | no | 102 | provisional |  |
 | `public/art/atlas/home-garden.webp` | 720×1080 | 2:3 | no | 207 | provisional |  |
